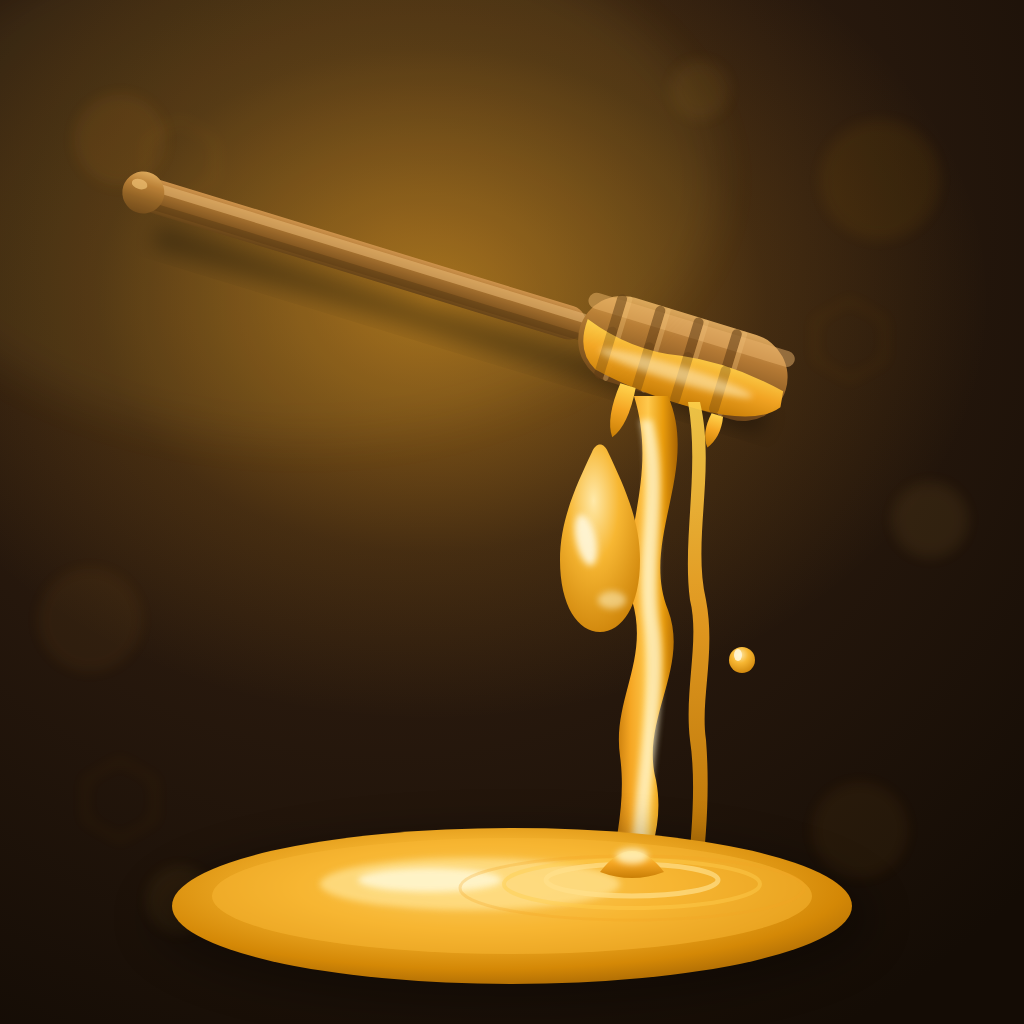
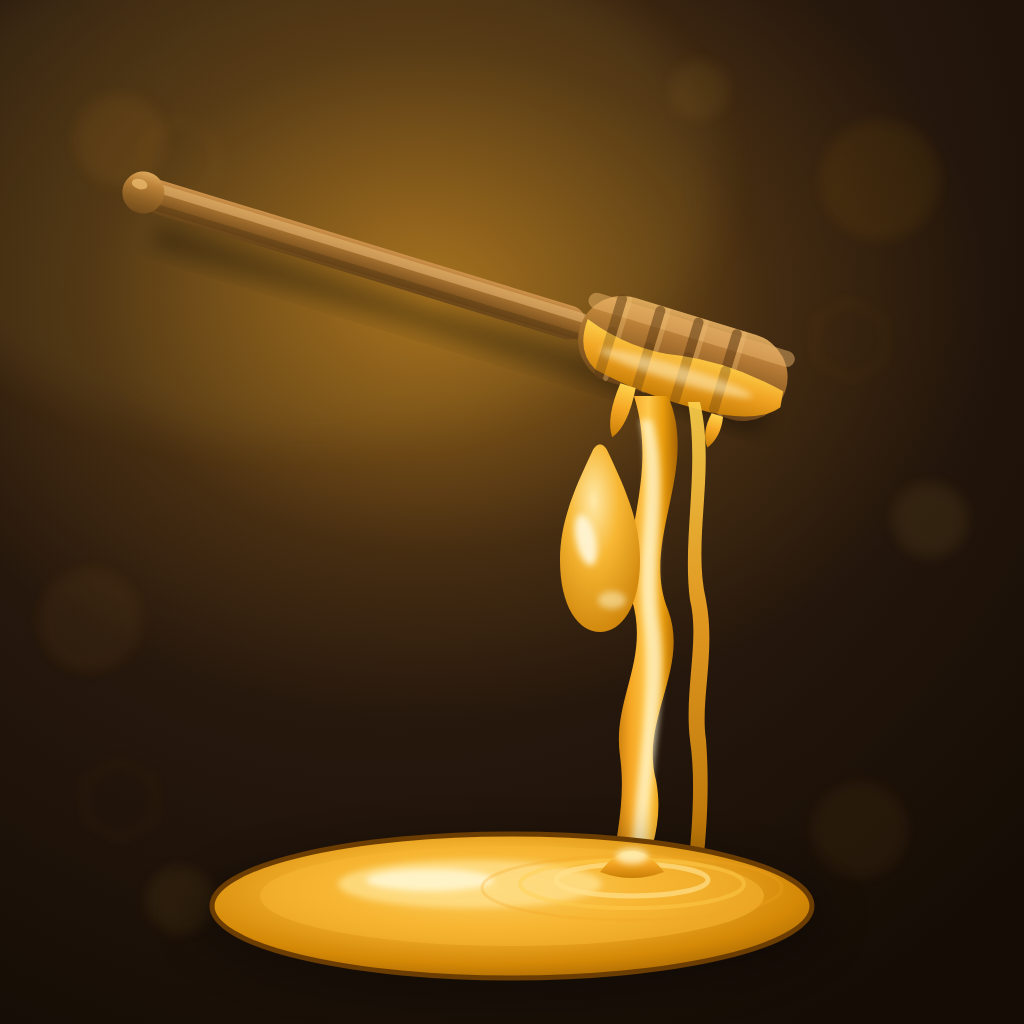
Fix: remove stray satellite droplet; narrow pool and deepen rim

Changed region(s): [[0.1562, 0.7812, 0.8438, 0.9688], [0.6875, 0.625, 0.75, 0.6562]]

diff --git a/scene.html b/scene.html
@@ -162,22 +162,16 @@
              transform="rotate(-12 586 540)"/>
     <ellipse cx="612" cy="600" rx="14" ry="9" fill="#fff3c4" opacity="0.55" filter="url(#tiny)"/>
   </g>
-  <!-- small satellite droplet -->
-  <g>
-    <circle cx="742" cy="660" r="13" fill="url(#drip)"/>
-    <ellipse cx="738" cy="655" rx="4" ry="6" fill="#fff8dc" opacity="0.85"/>
-  </g>
-
   <!-- ===== honey pool at the bottom ===== -->
-  <ellipse cx="512" cy="918" rx="360" ry="86" fill="#000000" opacity="0.30" filter="url(#soft2)"/>
-  <ellipse cx="512" cy="906" rx="340" ry="78" fill="url(#pool)"/>
-  <ellipse cx="512" cy="896" rx="300" ry="58" fill="#f7b733" opacity="0.55"/>
-  <ellipse cx="470" cy="884" rx="150" ry="26" fill="#ffe08a" opacity="0.8" filter="url(#tiny)"/>
-  <ellipse cx="430" cy="880" rx="72" ry="12" fill="#fff6cf" opacity="0.9" filter="url(#tiny)"/>
+  <ellipse cx="512" cy="918" rx="318" ry="80" fill="#000000" opacity="0.30" filter="url(#soft2)"/>
+  <ellipse cx="512" cy="906" rx="300" ry="72" fill="url(#pool)" stroke="#6b3d02" stroke-width="5"/>
+  <ellipse cx="512" cy="896" rx="252" ry="50" fill="#f7b733" opacity="0.55"/>
+  <ellipse cx="470" cy="884" rx="132" ry="24" fill="#ffe08a" opacity="0.8" filter="url(#tiny)"/>
+  <ellipse cx="430" cy="880" rx="64" ry="11" fill="#fff6cf" opacity="0.9" filter="url(#tiny)"/>
   <!-- ripple rings where the ribbon lands -->
-  <ellipse cx="632" cy="880" rx="86" ry="16" fill="none" stroke="#ffe08a" stroke-width="5" opacity="0.7"/>
-  <ellipse cx="632" cy="884" rx="128" ry="24" fill="none" stroke="#ffcf4d" stroke-width="4" opacity="0.45"/>
-  <ellipse cx="632" cy="888" rx="172" ry="32" fill="none" stroke="#f5a623" stroke-width="3" opacity="0.28"/>
+  <ellipse cx="632" cy="880" rx="76" ry="16" fill="none" stroke="#ffe08a" stroke-width="5" opacity="0.7"/>
+  <ellipse cx="632" cy="884" rx="112" ry="24" fill="none" stroke="#ffcf4d" stroke-width="4" opacity="0.45"/>
+  <ellipse cx="632" cy="888" rx="150" ry="32" fill="none" stroke="#f5a623" stroke-width="3" opacity="0.28"/>
   <!-- ribbon meets pool: small mound -->
   <path d="M 600 872 Q 632 830 664 872 Q 632 884 600 872 Z" fill="url(#honeyVert)"/>
   <ellipse cx="632" cy="856" rx="16" ry="8" fill="#fff3c4" opacity="0.8" filter="url(#tiny)"/>
